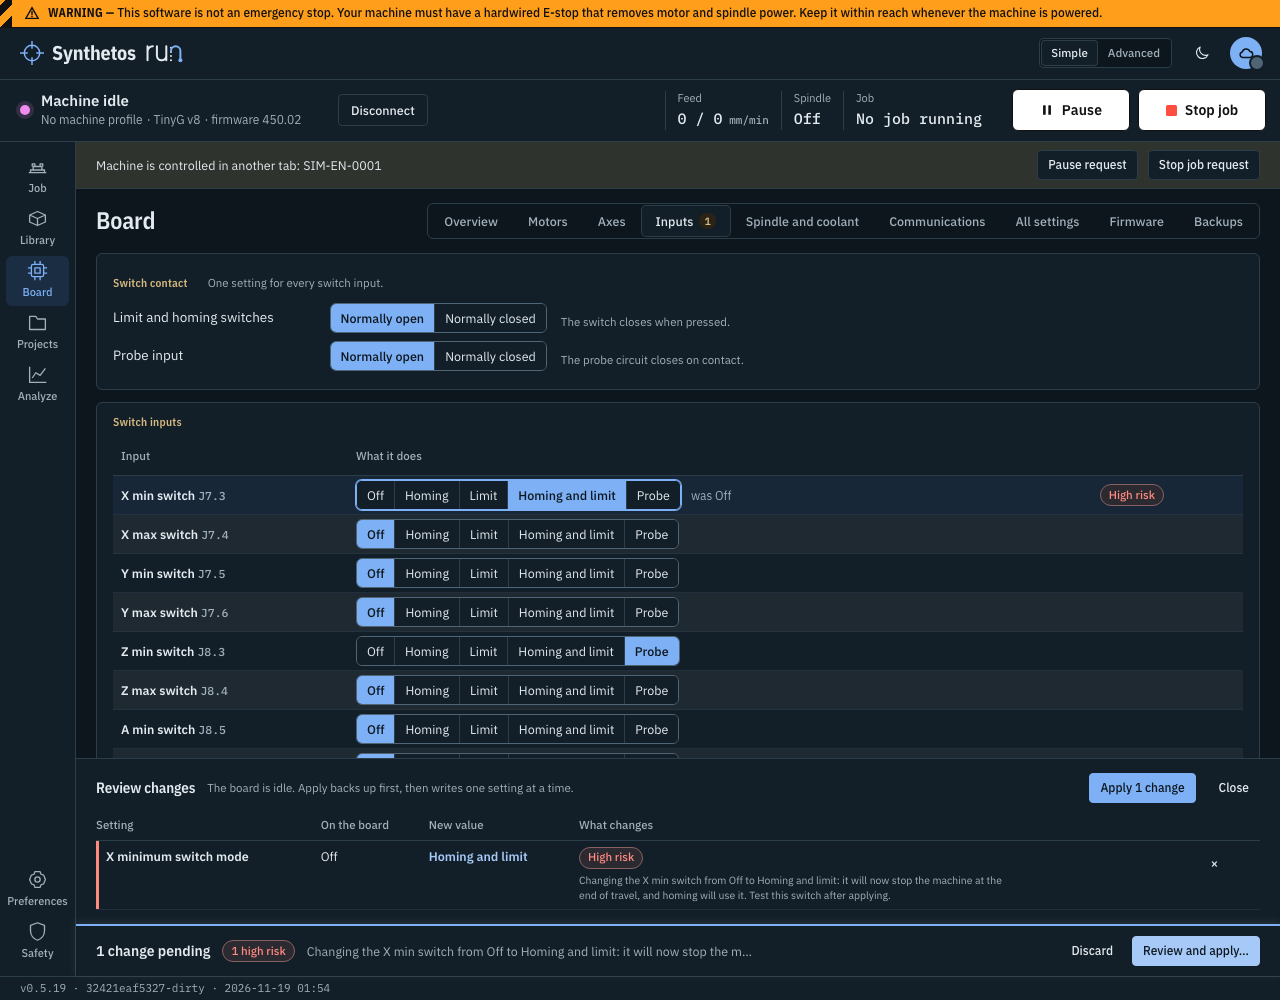
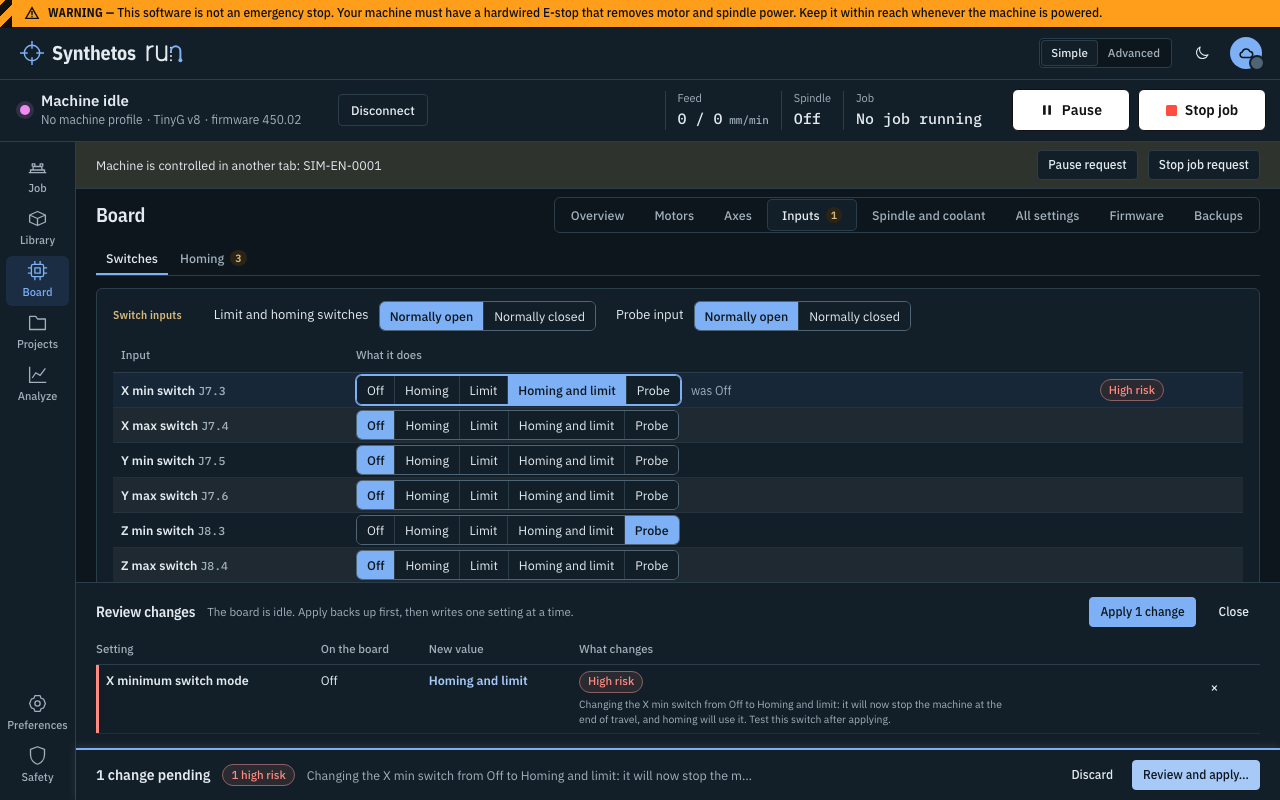
Board settings walkthrough: no scrolling, sub-tabs, microsteps, Communications in All settings, Firmware sub-tabs; pictures at 1280 x 800 per sub-tab, dark and light

diff --git a/docs/design/BOARD_SETTINGS.md b/docs/design/BOARD_SETTINGS.md
@@ -1,7 +1,8 @@
 # Board settings: walkthrough
 
 Built from the design `docs/superpowers/specs/2026-11-18-board-config-design.md` and the owner's answers in
-`docs/ops/owner-decisions.md` OD-44. Pictures are 1280 px wide, dark and light, from the fake-serial build:
+`docs/ops/owner-decisions.md` OD-44, then the owner's staging walk of 2026-11-19 (pictures 165 and 166: "we dont like
+scroll bars"). Pictures are 1280 × 800, the owner's window, dark and light, from the fake-serial build:
 
 - **approved:** the plain simulator (build 450.02, approved, settings writes on);
 - **read-only:** the edge-next simulator reporting 449.01 (READ_ONLY). The test kit has no stock-449 simulator, so the
@@ -15,6 +16,23 @@ cd tools/e2e && BOARD_CONFIG_SHOTS=$PWD/../../docs/design/screenshots/board-conf
 ```
 
 The simulator reports 0 for jerk, junction deviation and junction acceleration, so those rows read 0 in the pictures.
+
+## Nothing scrolls
+
+At 1280 × 800 no Board tab scrolls, at Simple or Advanced, on an approved or a read-only board. Nothing inside a panel
+scrolls either. What does not fit is split into sub-tabs, or a list pages with **Back**, "Page n of m" and **Next**.
+`tools/e2e/specs/board-no-scroll.fake-serial.ts` checks every tab and every sub-tab, both levels, both boards.
+
+| Tab | Sub-tabs or paging |
+|---|---|
+| Overview | None. The board facts are tighter, and the approval sentence has its own line. |
+| Motors | One per motor, "Motor 1 · X", with a count of its pending changes. |
+| Axes | All axes, one per axis in use, and Other axes. |
+| Inputs | Switches and Homing. |
+| Spindle and coolant | Outputs and PWM. |
+| All settings | The group chips are tabs. Search and "Only pending" look across every group. The rows page. |
+| Firmware | Update, Firmware backups and Custom firmware. The releases page. |
+| Backups | None. It already fit. |
 
 ## A first-time user's path
 
@@ -44,15 +62,19 @@ The simulator reports 0 for jerk, junction deviation and junction acceleration, 
 
 ## Inputs (owner picture 153)
 
-Owner, on 449: "Done editing" over a table of raw numbers. Built: switch contact once at the top, one five-way choice
-per input, a homing summary that links to Axes, and a line for each consequence. Each input has one name from the
-settings file ("X min switch") on Inputs, Axes, the pin card and in every consequence. A consequence follows the
-direction of the change: Off to Homing and limit reads "it will now stop the machine at the end of travel, and homing
-will use it".
+Owner, on 449: "Done editing" over a table of raw numbers. Built: two sub-tabs. **Switches** has the switch contact
+in the table's header line and one five-way choice per input. **Homing** has the homing summary, with a chip per axis
+that opens that axis on Axes, and a line for each consequence. Each input has one name from the settings file ("X min
+switch") on Inputs, Axes, the pin card and in every consequence. There is no fixed probe-contact line: on 449 the
+probe contact is not a setting, so the tab says nothing about it.
 
 | Owner | Built, read-only, dark | Built, read-only, light |
 |---|---|---|
-| ![153](screenshots/board-config/owner/153.png) | ![](screenshots/board-config/built/readonly-inputs-dark.png) | ![](screenshots/board-config/built/readonly-inputs-light.png) |
+| ![153](screenshots/board-config/owner/153.png) | ![](screenshots/board-config/built/readonly-inputs-switches-dark.png) | ![](screenshots/board-config/built/readonly-inputs-switches-light.png) |
+
+| Homing, approved, dark | Homing, approved, light |
+|---|---|
+| ![](screenshots/board-config/built/approved-inputs-homing-dark.png) | ![](screenshots/board-config/built/approved-inputs-homing-light.png) |
 
 | Built, approved, one pending change, dark | Built, approved, one pending change, light |
 |---|---|
@@ -82,36 +104,53 @@ only.
 
 ## Motors (owner picture 154)
 
-Owner: "1mi 2" should be spelled out. Built: one card per motor; "Microsteps: Half step (2)"; steps per mm, shown board
-→ new while a change is pending; **Motor idle timeout** as one field above the cards, by the same name as in All
-settings. Each select is as wide as its longest option, so no value is cut off and the chevron never covers text. A
-motor that drives A, B or C reads its travel per turn in degrees ("360°") and its steps per degree. The data says so
-with `rotary` on `{m}tr`.
+Owner: "1mi 2" should be spelled out. Built: one sub-tab per motor; steps per mm, shown board → new while a change is
+pending; **Motor idle timeout** as one field above the motor. Each select is as wide as its longest option. A motor
+that drives A, B or C reads its travel per turn in degrees ("360°") and its steps per degree. The data says so with
+`rotary` on `{m}tr`.
+
+**Microsteps** read as fractions from the settings file: Full step (1), Half step (1/2), Quarter step (1/4), Eighth step
+(1/8). Those are the steps the TinyG v8 drivers can do. A microstep change is high risk: the review asks for the
+consequence to be ticked and WRITE typed. The review shows the result before Apply, for example "Steps per mm: 160 →
+80". It does the same for a step angle or travel per turn change.
+
+There is no Custom field. The 450 firmware refuses any microstep value but 1, 2, 4 or 8, so a custom value could never
+be written. 449 and 440 store any value. If such a board reports one, it reads "1/16 step (custom)", from the data's
+`custom` label.
 
 | Owner | Built, read-only, dark | Built, approved, light |
 |---|---|---|
-| ![154](screenshots/board-config/owner/154.png) | ![](screenshots/board-config/built/readonly-motors-dark.png) | ![](screenshots/board-config/built/approved-motors-light.png) |
+| ![154](screenshots/board-config/owner/154.png) | ![](screenshots/board-config/built/readonly-motors-1-dark.png) | ![](screenshots/board-config/built/approved-motors-1-light.png) |
 
-## Axes (owner picture 157)
+## Axes (owner pictures 157 and 166)
 
-Owner: "axes doesnt look like there is a good way to set anything either it looks confusing and terrible too".
-Built: an All axes card (soft limits, junction acceleration, chordal tolerance), one card per axis with Mode, Travel
-(and what the board does with it, in words), Speed and Homing. Unused axes that are Off collapse to one line. Switch
-modes are set on Inputs only. Each card has one link to Inputs, and none on a read-only board. The card has two
-independent columns: Speed follows Mode on the left, Homing follows Travel on the right, with no gap.
+Owner: "axes doesnt look like there is a good way to set anything", then a page that scrolled past every axis card.
+Built: sub-tabs. **All axes** has soft limits, junction acceleration and chordal tolerance. Each axis in use has its
+own sub-tab with a card in three columns: Mode and Speed, Travel (and what the board does with it, in words), and
+Homing. **Other axes** lists the axes not in use, one row each with its mode. Switch modes are set on Inputs only. Each
+card has one link to Inputs, and none on a read-only board.
 
-| Owner | Built, approved, dark | Built, read-only, light |
+| Owner | Built, X axis, approved, dark | Built, X axis, read-only, light |
 |---|---|---|
-| ![157](screenshots/board-config/owner/157.png) | ![](screenshots/board-config/built/approved-axes-dark.png) | ![](screenshots/board-config/built/readonly-axes-light.png) |
+| ![166](screenshots/board-config/owner/166.png) | ![](screenshots/board-config/built/approved-axes-x-dark.png) | ![](screenshots/board-config/built/readonly-axes-x-light.png) |
+
+| All axes, dark | Other axes, light |
+|---|---|
+| ![](screenshots/board-config/built/approved-axes-all-dark.png) | ![](screenshots/board-config/built/approved-axes-other-light.png) |
 
 ## All settings at Simple and Advanced (owner picture 155)
 
 Owner: Simple showed 22 guided fields with raw values. Built: every reported setting at both levels, grouped from the
-settings file, with the same control as the tabs. Each row shows its value once. Simple shows the plain name and the
-value. Advanced adds the raw token beside the name, in the same cell (OD-44). A setting Run never writes says "Run
-doesn't change this setting." with no promise.
+settings file, with the same control as the tabs. The group chips act as tabs and show one group at a time. A search,
+or "Only pending", looks across every group. The rows page to fit the window. A small "i" on a row puts its
+description in one line under the list. Simple shows the plain name and the value. Advanced adds the raw token beside
+the name, in the same cell (OD-44).
 
-| Owner | Built, Simple, dark | Built, Advanced, dark |
+**Communications** and **Status report** are groups at Advanced only. Every setting in them is read-only, with one
+reason: "Run sets this itself. Changing it could cut the connection." The Status report group lists the report fields
+in words ("Machine state", "X machine position"), one chip per field. There is no Communications tab.
+
+| Owner | Built, Simple, dark | Built, Advanced, Communications, dark |
 |---|---|---|
 | ![155](screenshots/board-config/owner/155.png) | ![](screenshots/board-config/built/approved-settings-dark.png) | ![](screenshots/board-config/built/approved-settings-advanced-dark.png) |
 
@@ -138,23 +177,35 @@ On a read-only board the notice leaves out its own Back up settings on this tab,
 
 ## Spindle and coolant (owner picture 152)
 
-Owner: the coolant row said "Reserved on this firmware" on 449, where that setting does not exist. Built: each output's
-polarity from the settings file ("No setting on this firmware" where the firmware has none), and what is wired to the
-coolant output from the machine record. The spindle speed (PWM) names fit on one line each.
-
-## Communications
-
-Every value is spelled out from the data, with one sentence for why Run never changes them. The status report fields
-read in words ("Machine state", "X machine position"), one chip per field. Fields that are not settings take their
-words from the settings file's `statusFields`.
-
-| Dark | Light |
-|---|---|
-| ![](screenshots/board-config/built/approved-comms-dark.png) | ![](screenshots/board-config/built/approved-comms-light.png) |
+Owner: the coolant row said "Reserved on this firmware" on 449, where that setting does not exist. Built: two
+sub-tabs. **Outputs** has each output's polarity from the settings file ("No setting on this firmware" where the
+firmware has none), and what is wired to the coolant output from the machine record. **PWM** has the spindle speed
+settings in three columns: General, Clockwise and Counter-clockwise.
 
 | Owner | Built, read-only, dark | Built, approved, light |
 |---|---|---|
-| ![152](screenshots/board-config/owner/152.png) | ![](screenshots/board-config/built/readonly-io-dark.png) | ![](screenshots/board-config/built/approved-io-light.png) |
+| ![152](screenshots/board-config/owner/152.png) | ![](screenshots/board-config/built/readonly-io-outputs-dark.png) | ![](screenshots/board-config/built/approved-io-outputs-light.png) |
+
+| PWM, dark | PWM, light |
+|---|---|
+| ![](screenshots/board-config/built/approved-io-pwm-dark.png) | ![](screenshots/board-config/built/approved-io-pwm-light.png) |
+
+## Firmware (owner picture 165)
+
+Owner: firmware image backups, custom firmware and trusted builds sat below the update panel, past the window.
+Built: three sub-tabs. **Update** has this board's firmware, the releases and the update steps. Each release is one
+row of the same height, and the rows page. The release notes are the title's tooltip at Simple and one line at
+Advanced. An older release always shows its downgrade note. **Firmware backups** lists the images read before each
+update, with Put back. **Custom firmware** has Choose a .hex file and the trusted builds, each with Revoke. While an
+update runs, or its settings check is open, only Update is shown, so the progress stays in view.
+
+| Owner | Built, Update, read-only, dark | Built, Update, approved, light |
+|---|---|---|
+| ![165](screenshots/board-config/owner/165.png) | ![](screenshots/board-config/built/readonly-firmware-update-dark.png) | ![](screenshots/board-config/built/approved-firmware-update-light.png) |
+
+| Firmware backups, dark | Custom firmware, light |
+|---|---|
+| ![](screenshots/board-config/built/approved-firmware-images-dark.png) | ![](screenshots/board-config/built/approved-firmware-custom-light.png) |
 
 ## The read-only 449 state
 
@@ -162,14 +213,16 @@ words from the settings file's `statusFields`.
 |---|---|
 | ![](screenshots/board-config/built/readonly-overview-dark.png) | ![](screenshots/board-config/built/readonly-overview-light.png) |
 
-Every other tab of both boards, both themes, is in `screenshots/board-config/built/` as
-`<approved|readonly>-<tab>-<dark|light>.png`. The simulator has no G20 mode, so inch boards are covered by unit tests
-(`apps/web/test/boardInches.test.ts`).
+Every other tab and sub-tab of both boards, both themes, is in `screenshots/board-config/built/` as
+`<approved|readonly>-<tab>[-<sub-tab>]-<dark|light>.png`. The simulator has no G20 mode, so inch boards are covered by
+unit tests (`apps/web/test/boardInches.test.ts`).
 
 ## Not in this change
 
 - **Test switches** (spec §5.4): waits for the safety review and bench checks BC-1 to BC-4.
 - **Account copies of backups** (OD-44 Q5): a later slice.
+- **Custom microsteps on 450**: waits for the firmware to accept values other than 1, 2, 4 and 8. Adding it then is a
+  reviewed change to the 450 settings file's write range.
 - **Bench checks** BC-1 to BC-10 belong to the TG Firmware session. The data marks the labels they confirm with
   `verify` (BC-1 input states, BC-7 power modes, BC-8 rotary values in radius mode, BC-10 junction acceleration unit;
   BC-5 and BC-9 are cited on `probeAllowed` and `homingTravel`).
